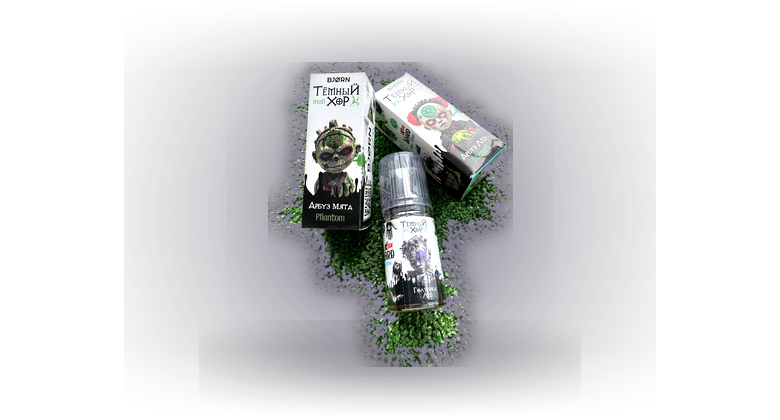
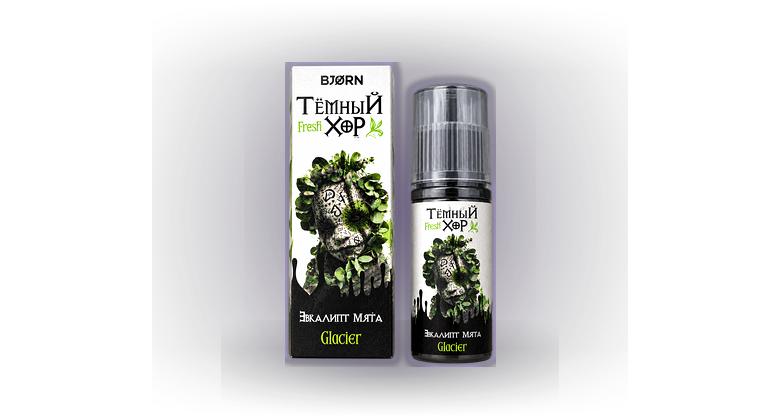
bjorn (Bjorn Темный Хор): new card from cut-out PNG (set: pack + bottle)

Changed region(s): [[0.3385, 0.1238, 0.6769, 0.8976], [0.8, 0.3714, 0.8308, 0.65], [0.1846, 0.4024, 0.2154, 0.619]]

diff --git a/index.html b/index.html
@@ -5,7 +5,7 @@
 <meta name="viewport" content="width=device-width, initial-scale=1, maximum-scale=1, user-scalable=no">
 <title>VapeOasis — мини-приложение</title>
 <script src="https://telegram.org/js/telegram-web-app.js"></script>
-<link rel="stylesheet" href="style.css?v=20261013i">
+<link rel="stylesheet" href="style.css?v=20261013j">
 </head>
 <body>
 <div id="fx"></div>
@@ -82,7 +82,7 @@
 
 <div class="sheet" id="sheet"><div class="in" id="sheetIn"></div></div>
 
-<script src="products.js?v=20261013i"></script>
-<script src="app.js?v=20261013i"></script>
+<script src="products.js?v=20261013j"></script>
+<script src="app.js?v=20261013j"></script>
 </body>
 </html>

diff --git a/app.js b/app.js
@@ -20,7 +20,7 @@ let discountPick = localStorage.getItem("vo_disc") || null; // жижа, на к
 
 const $ = s=>document.querySelector(s);
 const money = n=>n+"₽";
-const IMG_VER = "20261013i";
+const IMG_VER = "20261013j";
 const imgv = u => u ? (u.indexOf("?")>=0 ? u : u+"?v="+IMG_VER) : u;
 const byId = id=>PRODUCTS.find(p=>p.id===id);
 const catEmoji = c=>({liquids:"🧪",pods:"🔌",disposable:"💨",cartridges:"♻",snus:"📦"}[c]||"•");
